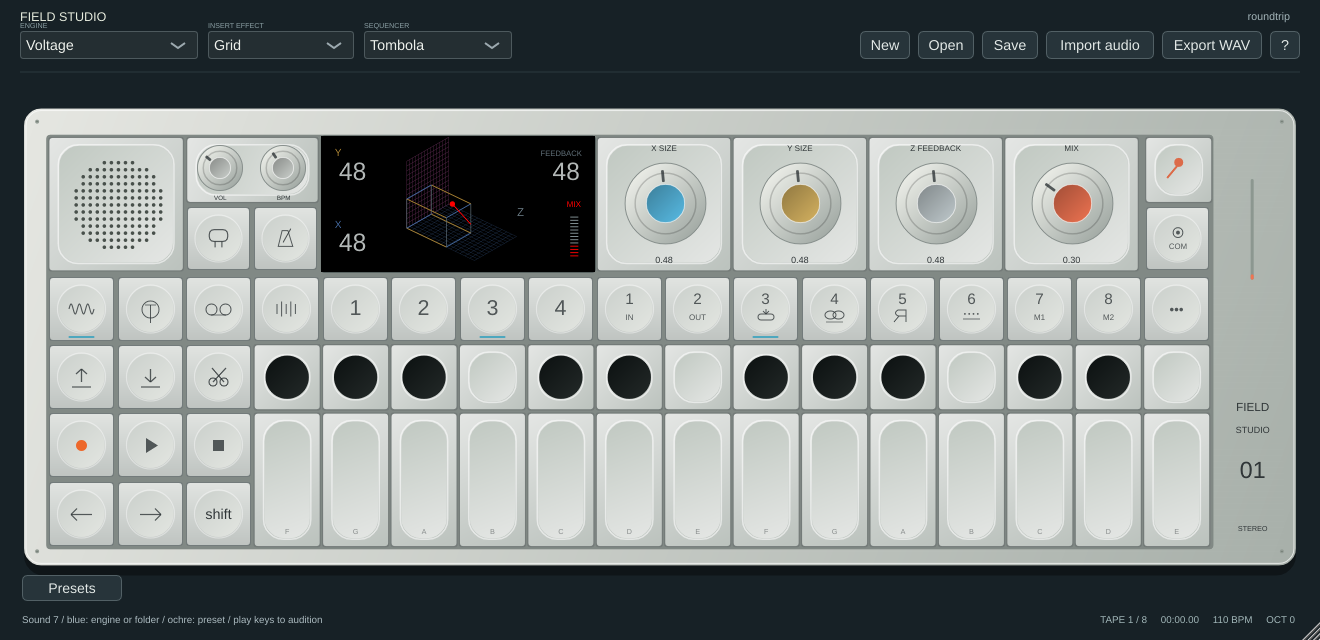
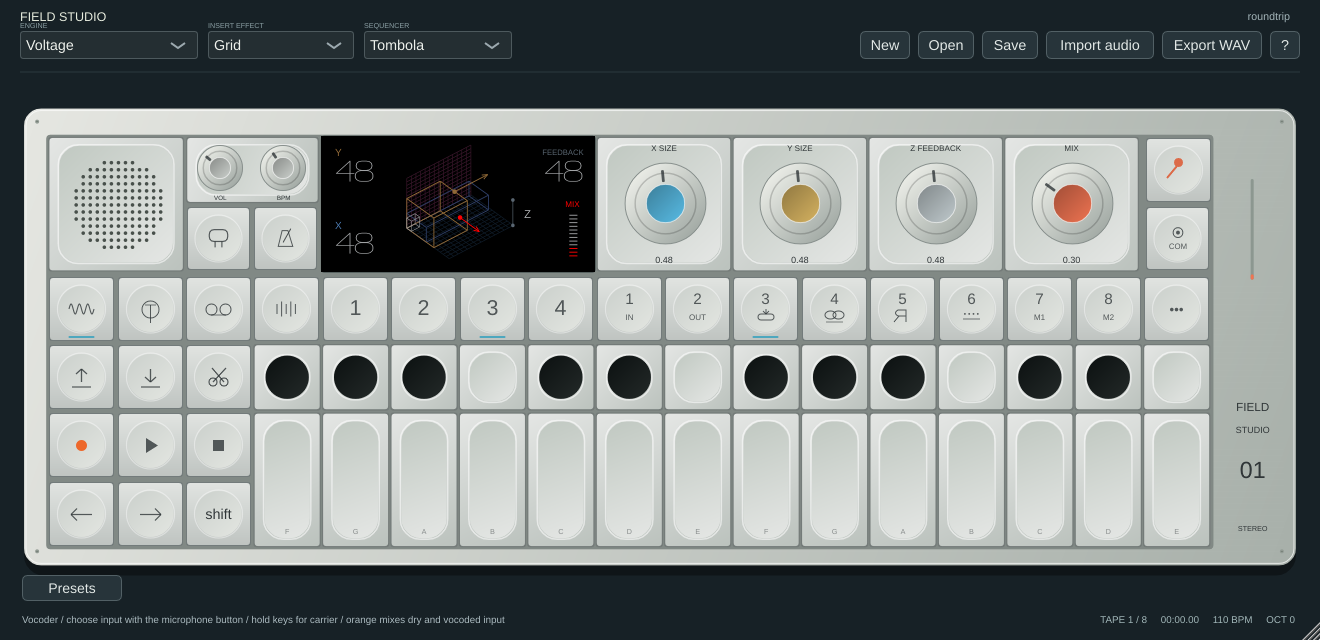
Redraw Grid, Mother, Dimension and DNA LCDs from references

diff --git a/Source/SpatialScreens.h b/Source/SpatialScreens.h
@@ -1,22 +1,34 @@
 #pragma once
-#include "MixerScreen.h"
+#include "LcdReadouts.h"
 namespace field {
-inline void effectMeter(juce::Graphics& g,float mix){for(int i=0;i<13;++i){g.setColour(i<(int)std::round(mix*13)?juce::Colours::red:juce::Colour(0xff89979b));g.drawLine(550,258-i*7.f,568,258-i*7.f,2);}}
+inline void effectMeter(juce::Graphics& g,float mix){for(int i=0;i<12;++i){g.setColour(i<(int)(std::clamp(mix,0.f,1.f)*12)?juce::Colours::red:juce::Colour(0xffa1a3a5));g.drawLine(548,258-i*8.f,566,258-i*8.f,2);}}
 inline void drawGridScreen(juce::Graphics& g,juce::Rectangle<float> b,const std::array<float,4>& v){
- juce::Graphics::ScopedSaveState save(g);mixerCanvas(g,b);const juce::Colour blue(0xff416599),ochre(0xffa78032),grey(0xff62717a),purple(0xff6b305b);auto text=[&](juce::String s,juce::Rectangle<float> r,float size,juce::Colour c){mixerText(g,s,r,size,c);};
- text("Y",{15,20,42,30},25,ochre);text(juce::String((int)std::round(v[1]*99)),{16,42,104,65},61,juce::Colour(0xffb2b7b6));text("X",{15,175,42,30},25,blue);text(juce::String((int)std::round(v[0]*99)),{16,197,104,65},61,juce::Colour(0xffb2b7b6));text("FEEDBACK",{464,20,132,30},19,grey);text(juce::String((int)std::round(v[2]*99)),{486,42,110,65},61,juce::Colour(0xffb2b7b6));text("MIX",{523,130,70,30},20,juce::Colours::red);effectMeter(g,v[3]);
- auto point=[](float x,float y,float z){return juce::Point<float>(188+x*150+y*93,198+x*70-y*52-z*145);};auto line=[&](juce::Point<float> a,juce::Point<float> z,juce::Colour c,float width=1.f){g.setColour(c);g.drawLine(a.x,a.y,z.x,z.y,width);};
- for(int i=0;i<=14;++i){float t=i/14.f;line(point(t,0,0),point(t,1,0),blue.withAlpha(.4f));line(point(0,t,0),point(1,t,0),blue.withAlpha(.4f));line(point(0,t,0),point(0,t,1),purple.withAlpha(.75f));line(point(0,0,t),point(0,1,t),purple.withAlpha(.75f));}
- float x=.2f+v[0]*.8f,y=.2f+v[1]*.8f,z=.1f+v[2]*.7f;for(int side=0;side<2;++side){float zz=side?z:0;line(point(0,0,zz),point(x,0,zz),ochre,2);line(point(x,0,zz),point(x,y,zz),blue,2);line(point(x,y,zz),point(0,y,zz),ochre,2);line(point(0,y,zz),point(0,0,zz),blue,2);}for(float xx:{0.f,x})for(float yy:{0.f,y})line(point(xx,yy,0),point(xx,yy,z),grey,1.5f);
- auto dot=point(x*.75f,y*.65f,z);g.setColour(juce::Colours::red);g.fillEllipse(dot.x-6,dot.y-6,12,12);line(dot,point(x,y,z*.3f),juce::Colours::red,2);text("Z",{425,144,30,40},28,grey);
+ juce::Graphics::ScopedSaveState save(g);mixerCanvas(g,b);const juce::Colour blue(0xff2d3d64),ochre(0xff8f6836),grey(0xff5a6671),purple(0xff371629),floor(0xff0f1b27),digits(0xffa1a3a5);
+ mixerText(g,"Y",{24,20,25,30},25,ochre);lcdNumeral(g,juce::String((int)std::round(v[1]*99)),{32,52,80,46},digits);mixerText(g,"X",{24,176,25,30},25,juce::Colour(0xff4a77ac));lcdNumeral(g,juce::String((int)std::round(v[0]*99)),{32,208,80,46},digits);mixerText(g,"FEEDBACK",{472,21,124,25},19,grey);lcdNumeral(g,juce::String((int)std::round(v[2]*99)),{495,52,80,46},digits);mixerText(g,"MIX",{520,131,70,30},20,juce::Colours::red);effectMeter(g,v[3]);
+ auto point=[](float x,float y,float z){return juce::Point<float>(188+x*94+y*142,198+x*66-y*72-z);};auto line=[&](juce::Point<float> a,juce::Point<float> z,juce::Colour c,float width=1.f){g.setColour(c);g.drawLine({a,z},width);};
+ for(int i=0;i<=14;++i){float t=i/14.f;line(point(t,0,0),point(t,1,0),floor,1.6f);line(point(0,t,0),point(1,t,0),floor,1.6f);line(point(0,t,0),point(0,t,108),purple,1.6f);line(point(0,0,t*108),point(0,1,t*108),purple,1.6f);}
+ auto box=[&](float x,float y,float h,juce::Colour first,juce::Colour second,float stroke){for(float z:{0.f,h}){line(point(0,0,z),point(x,0,z),first,stroke);line(point(x,0,z),point(x,y,z),first,stroke);line(point(x,y,z),point(0,y,z),second,stroke);line(point(0,y,z),point(0,0,z),second,stroke);}for(float xx:{0.f,x})for(float yy:{0.f,y})line(point(xx,yy,0),point(xx,yy,h),xx==x?first:second,stroke);};
+ box(.46f,.97f,32,blue,blue,2.f);const float x=.25f+v[0]*.81f,y=.2f+v[1]*.67f,h=20+v[2]*92;box(x,y,h,ochre,ochre,2.f);box(.105f,.13f,22,juce::Colour(0xffa1a3a5),juce::Colour(0xffa1a3a5),1.2f);
+ auto arrow=[&](juce::Point<float> a,juce::Point<float> z,juce::Colour c){line(a,z,c,2);const auto d=(z-a)/a.getDistanceFrom(z);auto n=juce::Point<float>(-d.y,d.x);line(z,z-d*12+n*5,c,2);line(z,z-d*12-n*5,c,2);g.setColour(c);g.fillEllipse(a.x-5,a.y-5,10,10);};
+ arrow({294,119}, {367+(v[1]-.48f)*50,82-(v[1]-.48f)*30},ochre);arrow({306,175},{313+v[0]*74,204+v[2]*3},juce::Colours::red);
+ g.setColour(grey);g.drawLine(423,137,423,192,1.5f);g.fillEllipse(419,133,8,8);g.fillEllipse(419,188,8,8);mixerText(g,"Z",{441,149,29,37},28,digits);
+}
+inline void motherFigure(juce::Graphics& g,float centre,float base,float scale,juce::Colour colour){
+ juce::Graphics::ScopedSaveState save(g);g.addTransform(juce::AffineTransform::scale(scale).translated(centre,base-275*scale));g.setColour(colour);juce::Path p;
+ p.startNewSubPath(-27,80);p.cubicTo(-21,65,-20,32,0,29);p.cubicTo(21,30,21,65,27,80);p.quadraticTo(18,84,9,81);p.startNewSubPath(-13,49);p.lineTo(13,49);p.cubicTo(17,69,9,82,0,82);p.cubicTo(-10,82,-16,67,-13,49);p.startNewSubPath(-27,80);p.quadraticTo(-18,84,-10,81);
+ p.startNewSubPath(-10,81);p.quadraticTo(-10,94,-27,101);p.quadraticTo(-43,106,-42,122);p.quadraticTo(-41,142,-46,160);p.quadraticTo(-49,171,-45,179);p.quadraticTo(-51,181,-49,207);p.quadraticTo(-48,223,-44,237);p.quadraticTo(-47,244,-44,254);p.lineTo(-41,264);p.lineTo(-38,266);p.lineTo(-39,254);p.lineTo(-41,248);p.lineTo(-39,237);p.quadraticTo(-35,234,-36,224);p.lineTo(-35,207);p.quadraticTo(-32,191,-30,182);p.lineTo(-20,159);p.quadraticTo(-25,148,-26,130);
+ p.startNewSubPath(10,81);p.quadraticTo(10,94,27,101);p.quadraticTo(43,106,42,122);p.quadraticTo(41,142,46,160);p.quadraticTo(49,171,45,179);p.quadraticTo(51,181,49,207);p.quadraticTo(48,223,44,237);p.quadraticTo(47,244,44,254);p.lineTo(41,264);p.lineTo(38,266);p.lineTo(39,254);p.lineTo(41,248);p.lineTo(39,237);p.quadraticTo(35,234,36,224);p.lineTo(35,207);p.quadraticTo(32,191,30,182);p.lineTo(20,159);p.quadraticTo(25,148,26,130);
+ p.startNewSubPath(-26,142);p.quadraticTo(-25,164,-33,181);p.quadraticTo(-38,194,-33,220);p.lineTo(-27,275);p.startNewSubPath(26,142);p.quadraticTo(25,164,33,181);p.quadraticTo(38,194,33,220);p.lineTo(27,275);p.startNewSubPath(0,236);p.lineTo(0,275);g.strokePath(p,juce::PathStrokeType(2.f/std::max(.65f,scale),juce::PathStrokeType::curved,juce::PathStrokeType::rounded));
 }
 inline void drawMotherScreen(juce::Graphics& g,juce::Rectangle<float> b,const std::array<float,4>& v){
- juce::Graphics::ScopedSaveState save(g);mixerCanvas(g,b);const juce::Colour blue(0xff416599),grey(0xff62717a),ochre(0xffa78032);const float vanishX=245,vanishY=155;auto toward=[&](float x,float y,float depth){return juce::Point<float>(vanishX+(x-vanishX)*depth,vanishY+(y-vanishY)*depth);};
- g.setColour(grey.withAlpha(.45f));for(int i=0;i<12;++i){float depth=std::pow(.82f,(float)i);auto tl=toward(20,20,depth),br=toward(584,274,depth);g.drawRect(juce::Rectangle<float>(tl,br),1);}for(int i=0;i<=10;++i){float x=20+i*56.4f;g.drawLine(x,20,vanishX,vanishY,.7f);g.drawLine(x,274,vanishX,vanishY,.7f);}for(int i=0;i<=7;++i){float y=20+i*36.3f;g.drawLine(20,y,vanishX,vanishY,.7f);g.drawLine(584,y,vanishX,vanishY,.7f);}
- // Original body outline; distance changes apparent depth, gate the rear frame.
- auto person=[&](float x,float base,float scale,juce::Colour colour){juce::Graphics::ScopedSaveState pose(g);g.addTransform(juce::AffineTransform::scale(scale).translated(x,base));g.setColour(colour);juce::Path p;p.startNewSubPath(-17,-198);p.cubicTo(-28,-194,-24,-161,-15,-153);p.lineTo(-15,-142);p.lineTo(-38,-127);p.lineTo(-46,-77);p.lineTo(-55,-35);p.lineTo(-51,-13);p.lineTo(-46,-32);p.lineTo(-44,-60);p.lineTo(-30,-106);p.lineTo(-29,-69);p.lineTo(-23,-42);p.lineTo(-27,0);p.lineTo(-13,0);p.lineTo(-8,-57);p.lineTo(8,-57);p.lineTo(13,0);p.lineTo(27,0);p.lineTo(23,-42);p.lineTo(29,-69);p.lineTo(30,-106);p.lineTo(44,-60);p.lineTo(46,-32);p.lineTo(51,-13);p.lineTo(55,-35);p.lineTo(46,-77);p.lineTo(38,-127);p.lineTo(15,-142);p.lineTo(15,-153);p.cubicTo(24,-161,28,-194,17,-198);p.quadraticTo(0,-214,-17,-198);g.strokePath(p,juce::PathStrokeType(2));g.drawEllipse(-15.f,-196.f,30.f,43.f,1.5f);};
- person(303,276,1.3f-v[0]*.75f,blue);person(190,209,.22f,blue.withAlpha(.8f));g.setColour(ochre.withAlpha(.8f));g.drawRect(164.f,119-v[1]*25,53.f,93+v[1]*25,1.f);for(int ray=0;ray<3;++ray){g.setColour(juce::Colours::red.withAlpha(.35f+v[2]*.65f));g.drawLine(369,45+ray*19.f,490+v[2]*60,122,1);}
- g.setColour(juce::Colours::red);g.fillEllipse(257,54,12,12);g.fillEllipse(333,54,12,12);mixerText(g,"DISTANCE",{22,20,119,28},18,blue);mixerText(g,juce::String((int)std::round(v[0]*99)),{22,42,104,65},61,juce::Colour(0xffb2b7b6));mixerText(g,"GATE",{125,211,99,28},19,ochre);mixerText(g,"COLOR",{365,236,99,28},19,grey);mixerText(g,"MIX",{525,130,70,30},20,juce::Colours::red);effectMeter(g,v[3]);
+ juce::Graphics::ScopedSaveState save(g);mixerCanvas(g,b);const juce::Colour blue(0xff2d3d64),grey(0xff5a6671),ochre(0xff8f6836),room(0xff17232a),digits(0xffa1a3a5);
+ auto top=[](float u,float t){return juce::Point<float>(45+509*u+(122-309*u)*t,24+68*t);};auto bottom=[](float u,float t){return juce::Point<float>(45+509*u+(122-309*u)*t,274-92*t);};
+ auto line=[&](juce::Point<float> a,juce::Point<float> z,float width=1.f){g.drawLine({a,z},width);};g.setColour(room);for(int i=0;i<20;++i){float left=45+122*(1-std::pow(.86f,(float)i)),right=554-187*(1-std::pow(.78f,(float)i)),upper=24+68*(1-std::pow(.83f,(float)i)),lower=274-92*(1-std::pow(.78f,(float)i));line({left,upper},{right,upper});line({left,lower},{right,lower});line({left,upper},{left,lower});line({right,upper},{right,lower});}
+ for(int i=0;i<=12;++i){float u=i/12.f;line(top(u,1),bottom(u,1));}
+ for(int i=0;i<=7;++i){float t=i/7.f;for(float side:{0.f,1.f}){auto a=top(side,0)+(bottom(side,0)-top(side,0))*t,z=top(side,1)+(bottom(side,1)-top(side,1))*t;line(a+(a-z)*.3f,z);}line(top(0,1)+(bottom(0,1)-top(0,1))*t,top(1,1)+(bottom(1,1)-top(1,1))*t);}
+ const float gateTop=136-v[1]*50;g.setColour(ochre);juce::Path gate;gate.startNewSubPath(135,gateTop);gate.lineTo(189,gateTop);gate.lineTo(189,212);gate.lineTo(135,212);g.strokePath(gate,juce::PathStrokeType(1.7f));motherFigure(g,188,206,.34f,blue);motherFigure(g,303,275,1+(.48f-v[0])*.5f,blue);
+ g.setColour(juce::Colours::red);g.fillEllipse(257,54,12,12);g.fillEllipse(333,54,12,12);for(int ray=0;ray<3;++ray)g.drawLine(369,46+ray*14.f,478+v[2]*38,123,1);
+ mixerText(g,"DISTANCE",{16,21,119,28},20,juce::Colour(0xff3b5787));lcdNumeral(g,juce::String((int)std::round(v[0]*99)),{32,52,80,46},digits);mixerText(g,"GATE",{123,211,90,28},20,ochre);mixerText(g,"COLOR",{359,237,99,28},21,digits);mixerText(g,"MIX",{520,131,70,30},20,juce::Colours::red);effectMeter(g,v[3]);
 }
 inline void drawMasterScreen(juce::Graphics& g,juce::Rectangle<float> b,float left,float right,float drive,float release,const std::array<float,2>& peaks,const std::array<float,2>& prePeaks,bool linked){
  juce::Graphics::ScopedSaveState save(g);mixerCanvas(g,b);const juce::Colour grey(0xff62717a),pale(0xffc6cebb);mixerText(g,"MASTER",{24,20,114,32},19,grey);mixerText(g,linked?"SHIFT LOCK":"SHIFT LINK",{263,30,88,20},10,linked?juce::Colour(0xffa45791):grey);

diff --git a/Source/DimensionScreen.cpp b/Source/DimensionScreen.cpp
@@ -6,56 +6,59 @@ void drawDimensionScreen(juce::Graphics& g,juce::Rectangle<float> bounds,float w
     juce::Graphics::ScopedSaveState state(g);
     g.reduceClipRegion(bounds.toNearestInt());
     g.addTransform(juce::AffineTransform::scale(bounds.getWidth()/604.f,bounds.getHeight()/292.f).translated(bounds.getX(),bounds.getY()));
-    const juce::Colour blue{0xff4476aa},dimBlue{0xff2d4c75},ochre{0xffb68d42},grey{0xffb5bfaf},muted{0xff607582},red{0xffff1810},grid{0xff343229};
+    const juce::Colour blue{0xff4a77ac},dimBlue{0xff2d3d64},ochre{0xff8f6836},grey{0xffc4c8b6},muted{0xff5a6671},red{0xffff0000},grid{0xff2a221c};
     g.fillAll(juce::Colours::black);
     auto text=[&](const juce::String& value,juce::Rectangle<float> area,float size,juce::Colour colour,int justification=juce::Justification::centredLeft){g.setColour(colour);g.setFont(juce::Font(juce::FontOptions(size)));g.drawText(value,area,justification,true);};
     waveform=juce::jlimit(0.f,1.f,waveform);stereo=juce::jlimit(0.f,1.f,stereo);cutoff=juce::jlimit(0.f,1.f,cutoff);resonance=juce::jlimit(0.f,1.f,resonance);
-    text("WAVEFORM",{20,12,114,24},17,dimBlue);
-    text("STEREO",{143,12,80,24},17,ochre);
+    text("WAVEFORM",{20,12,114,24},19,dimBlue);
+    text("STEREO",{140,12,80,24},19,ochre);
     g.setColour(ochre.withAlpha(.5f));g.drawLine(225,25,290,25,1.2f);g.setColour(muted);g.drawLine(257,19,257,31,1);
     const float marker=225+stereo*65;g.setColour(ochre);g.drawLine(marker,21,marker,29,2);
-    text("FILTER FREQ",{302,12,116,24},17,muted);
+    text("FILTER FREQ",{300,12,116,24},19,muted);
     // Same unmodulated cutoff law as Engine::voice; never hard-code the guide's
     // example 440–1440 readout as if it were the current hardware response.
     const float hz=std::min((float)(sampleRate*.4),100.f+cutoff*cutoff*18000.f);
     text(hz>=1000?juce::String(hz/1000,1)+"k Hz":juce::String(hz,0)+" Hz",{420,12,121,24},18,grey);
-    text("RES",{545,12,45,24},17,red);
+    text("RES",{545,12,45,24},19,red);
 
-    constexpr float left=135,right=540,top=41,bottom=253;
-    g.setColour(grid);for(int line=0;line<7;++line){float y=top+(bottom-top)*line/6;g.drawLine(left,y,577,y,.65f);g.setColour(grey.withAlpha(.6f));g.drawLine(left-12,y,left,y,.8f);g.setColour(grid);}
-    g.setColour(grey.withAlpha(.4f));g.drawLine(left,top,left,bottom,.8f);
-    for(float x:{220.f,320.f,420.f,540.f}){g.setColour(muted.withAlpha(.38f));for(float y=top;y<bottom;y+=12)g.drawLine(x,y,x,juce::jmin(y+7,bottom),.8f);}
+    constexpr float left=132,right=506,top=39,bottom=252;
+    g.setColour(grid);for(int line=0;line<7;++line){float y=top+(bottom-top)*line/6;g.drawLine(left,y,506,y,1.f);g.setColour(grey.withAlpha(.85f));g.drawLine(left-12,y,left,y,.8f);g.setColour(grid);}
+    g.setColour(grey.withAlpha(.8f));g.drawLine(left,top,left,bottom,.8f);
+    for(float x:{220.f,418.f,506.f}){g.setColour(muted.withAlpha(.38f));for(float y=top;y<bottom;y+=12)g.drawLine(x,y,x,juce::jmin(y+7,bottom),.8f);}
     text("-1",{206,255,30,21},16,muted);text("0",{313,255,22,21},16,muted);text("1",{413,255,22,21},16,muted);
 
     const int selected=juce::jlimit(0,5,(int)(waveform*5.999f));
     for(int row=0;row<6;++row){
         const float y=46+row*35.f;
-        if(row==selected){g.setColour(blue.withAlpha(.21f));g.fillRect(21.f,y-6,114.f,35.f);g.setColour(blue);g.drawRect(21.f,y-6,114.f,35.f,1.2f);}
+        if(row==selected){g.setColour(juce::Colour(0xff0f1b27));g.fillRect(21.f,y-6,112.f,35.f);g.setColour(blue);g.drawRect(21.f,y-6,112.f,35.f,1.2f);}
         g.setColour(row==selected?blue:dimBlue);
         if(row==0||row==5){g.drawRoundedRectangle({27,y-1,68,24},2,1.1f);text("NOISE",{33,y-2,64,25},18,row==selected?blue:dimBlue);continue;}
         juce::Path shape;
         if(row==1){shape.startNewSubPath(24,y+23);for(int pulse=0;pulse<2;++pulse){float x=41+pulse*33.f;shape.lineTo(x,y+23);shape.lineTo(x,y+1);shape.quadraticTo(x+3,y-3,x+6,y+1);shape.lineTo(x+6,y+23);}shape.lineTo(96,y+23);}
         else if(row==2){shape.startNewSubPath(24,y+23);shape.lineTo(42,y+23);shape.lineTo(42,y);shape.lineTo(59,y);shape.lineTo(59,y+23);shape.lineTo(76,y+23);shape.lineTo(76,y);shape.lineTo(95,y);}
-        else{shape.startNewSubPath(26,y+23);for(int tooth=0;tooth<3;++tooth){float x=26+tooth*24.f;shape.lineTo(x+20,y);if(tooth<2)shape.lineTo(x+20,y+23);}if(row==4){g.strokePath(shape,juce::PathStrokeType(1.2f));g.drawRoundedRectangle({69,y+6,39,17},2,1);text("SUB",{72,y+5,34,18},13,blue);continue;}}
+        else{shape.startNewSubPath(26,y+23);for(int tooth=0;tooth<3;++tooth){float x=26+tooth*24.f;shape.lineTo(x+20,y);if(tooth<2)shape.lineTo(x+20,y+23);}if(row==4){g.strokePath(shape,juce::PathStrokeType(1.2f));g.setColour(blue);g.drawRoundedRectangle({69,y+6,39,17},2,1);text("SUB",{72,y+5,34,18},13,blue);continue;}}
         g.strokePath(shape,juce::PathStrokeType(1.2f));
     }
     {juce::Graphics::ScopedSaveState clip(g);g.reduceClipRegion(juce::Rectangle<float>(left,top,right-left,bottom-top).toNearestInt());
         // Smooth, animated XY-style control preview. Width follows Stereo;
         // waveform selection changes the curve, without claiming a live scope.
-        for(int trace=0;trace<4;++trace){juce::Path path;const float offset=trace*.075f;
-            for(int i=0;i<=360;++i){const float t=i/360.f*juce::MathConstants<float>::twoPi;
-                const float x=320+std::sin(t+offset)*(55+stereo*72);
-                const float y=155+std::sin(t+(trace%2?1.f:-1.f)*(.35f+stereo*1.1f)+offset+selected*.035f+std::sin(phase)*.12f)*(45+stereo*14);
+        for(int trace=0;trace<2;++trace){juce::Path path;
+            // The guide's knot is a paired 2:3 Lissajous, not four ellipses.
+            const float width=(80+stereo*60)*(trace?.8795f:1.f),height=(40+stereo*14)*(trace?.8755f:1.f);
+            for(int i=0;i<=720;++i){const float t=i/720.f*juce::MathConstants<float>::twoPi;
+                const float x=318.53f+std::sin(t*2)*width;
+                const float y=140.65f+std::sin(t*3+juce::MathConstants<float>::pi+(selected-1)*.035f+std::sin(phase)*.04f)*height;
                 if(i==0)path.startNewSubPath(x,y);else path.lineTo(x,y);
             }
-            g.setColour((trace%2?blue:dimBlue).withAlpha(trace==0?.9f:.65f));g.strokePath(path,juce::PathStrokeType(1.2f));
+            g.setColour(trace?blue:dimBlue);g.strokePath(path,juce::PathStrokeType(1.5f));
         }
     }
+    g.setColour(grid);g.drawLine(584,top,584,bottom,1);for(int i=0;i<7;++i){float y=top+(bottom-top)*i/6;g.drawLine(572,y,584,y,1);}
     // The orange control is visualized using the reference's resonance shape;
     // the independent audio engine's macro law has not been hardware matched.
-    const float height=12+resonance*92,centre=558+cutoff*5,width=7+resonance*12;
+    const float height=16+resonance*96,centre=562+cutoff*5,width=7+resonance*12;
     juce::Path peak;peak.startNewSubPath(543,bottom);
-    for(int i=0;i<=70;++i){float x=543+i/70.f*40.f;peak.lineTo(x,bottom-height*std::exp(-std::pow((x-centre)/width,2)*2));}
+    for(int i=0;i<=70;++i){float x=543+i/70.f*40.f;peak.lineTo(x,bottom-height*std::exp(-std::pow((x-centre)/width,4)*2));}
     peak.lineTo(583,bottom);peak.closeSubPath();g.setColour(red);g.fillPath(peak);
 }
 }

diff --git a/tests/plugin_tests.cpp b/tests/plugin_tests.cpp
@@ -1,3 +1,6 @@
+#include "SpatialScreens.h"
+#include "DnaScreen.h"
+#include "DimensionScreen.h"
 #include "PluginProcessor.h"
 #include <thread>
 #include <atomic>
@@ -316,6 +319,8 @@ auto processor=std::make_unique<FieldProcessor>();processor->prepareToPlay(44100
     ui->setShiftForTesting(true);require(ui->macroMidiTargetForTesting(1)=="midiClockRelay"&&!ui->macroEnabledForTesting(0),"Tempo Shift relay/external ownership wrong");p.setValue("midiClockRelay",1);{juce::AudioBuffer<float> audio(2,128);juce::MidiBuffer clockEvents;for(int tick=0;tick<80;++tick){audio.clear();clockEvents.clear();for(int frame=0;frame<128;++frame)if((tick*128+frame)%882==0)clockEvents.addEvent(juce::MidiMessage::midiClock(),frame);p.processBlock(audio,clockEvents);}}require(p.clockLocked,"Tempo screenshot fixture did not acquire incoming clock");ui->refreshForTesting();captureNamed("tempo-midi-relay");ui->setShiftForTesting(false);p.clockLocked=false;p.metronome=false;p.setValue("tempoTapeLink",0);p.setValue("midiClockRelay",0);p.setValue("midiClockMode",0);p.setValue("tapeSpeed",1);p.setValue("tempo",110);
     p.setValue("midiInputChannel",0);p.setValue("midiNotesIn",1);p.setValue("sequenceOn",0);p.drumMode=false;p.setValue("engine",12);p.setValue("macro1",.65f);p.setValue("macro2",.55f);p.setValue("macro3",.6f);p.setValue("macro4",.85f);p.setValue("inputGain",1);{juce::AudioBuffer<float> audio(2,128);juce::MidiBuffer events;for(int tick=0;tick<70;++tick){events.clear();if(tick==1)events.addEvent(juce::MidiMessage::noteOn(1,60,.8f),0);for(int i=0;i<128;++i){float value=.2f*std::sin((tick*128+i)*.08f)+.15f*std::sin((tick*128+i)*.031f);audio.setSample(0,i,value);audio.setSample(1,i,value);}p.processBlock(audio,events);}}ui->showPageForTesting(0,0);captureNamed("vocoder-reference");require(ui->macroMidiTargetForTesting(0)=="macro1"&&ui->macroMidiTargetForTesting(3)=="macro4","Vocoder macro mapping changed");
     p.transport("panic");p.setValue("captureLength",0);p.setValue("captureThreshold",.2f);p.setValue("captureKeyGate",1);ui->showPageForTesting(6,0);require(ui->macroMidiTargetForTesting(2)=="captureThreshold"&&ui->macroMidiTargetForTesting(3)=="inputGain","Capture threshold/gain controls wrong");p.startSampleCapture();ui->refreshForTesting();captureNamed("sampling-standby");{juce::AudioBuffer<float> audio(2,128);juce::MidiBuffer events;for(int tick=0;tick<140;++tick){events.clear();if(tick==1)events.addEvent(juce::MidiMessage::noteOn(1,60,.8f),0);for(int i=0;i<128;++i){audio.setSample(0,i,.3f*std::sin((tick*128+i)*.1f));audio.setSample(1,i,.2f*std::sin((tick*128+i)*.09f));}p.processBlock(audio,events);}}require(!p.captureArmed&&p.captureSeconds>0,"Recording screenshot fixture never triggered");ui->refreshForTesting();captureNamed("sampling-recording");p.stopSampleCapture();p.setValue("captureKeyGate",0);p.setValue("captureThreshold",0);p.transport("panic");ui->showPageForTesting(0,0);
+    p.drumMode=false;p.setValue("engine",9);for(int i=1;i<=4;++i)p.setValue("macro"+juce::String(i),.48f);ui->showPageForTesting(0,0);captureNamed("dna-reference");
+    if(argc>1){auto saveLcd=[&](juce::String name,auto draw){juce::Image image(juce::Image::RGB,604,292,true);juce::Graphics graphics(image);draw(graphics);auto file=juce::File::getCurrentWorkingDirectory().getChildFile(argv[1]).getChildFile(name+".png");juce::FileOutputStream stream(file);stream.setPosition(0);stream.truncate();juce::PNGImageFormat png;require(png.writeImageToStream(image,stream),"LCD reference snapshot failed");};saveLcd("lcd-grid",[](auto& g){field::drawGridScreen(g,{0,0,604,292},{{.48f,.48f,.48f,.3f}});});saveLcd("lcd-mother",[](auto& g){field::drawMotherScreen(g,{0,0,604,292},{{.48f,.48f,.48f,.3f}});});saveLcd("lcd-dna",[](auto& g){field::drawDnaScreen(g,{0,0,604,292},{{.48f,.48f,.48f,.48f}});});saveLcd("lcd-dimension",[](auto& g){field::drawDimensionScreen(g,{0,0,604,292},.24f,.62f,.42f,.75f,44100,0);});}
     for(int type=0;type<FieldProcessor::lfoNames.size();++type){p.setValue("lfo",(float)type);for(int shape=0;shape<6;++shape){p.setValue("lfoWaveform",(float)shape);ui->showPageForTesting(0,3);require(editor->createComponentSnapshot(editor->getLocalBounds()).isValid(),"LFO source/shape did not render");if(shape==0)captureNamed("lfo-"+juce::String(type));if(type==3)captureNamed("lfo-wave-"+juce::String(shape));}}
     p.drumMode=false;p.setValue("engine",1);ui->setShiftForTesting(false);ui->showPageForTesting(0,0);require(ui->macroMidiTargetForTesting(0)=="macro1","Synth knob learns wrong parameter");ui->showPageForTesting(3,0);require(ui->macroMidiTargetForTesting(0)=="track1Level","Mixer knob learns wrong parameter");ui->setShiftForTesting(true);require(ui->macroMidiTargetForTesting(0)=="track1Pan","Shifted mixer knob learns wrong parameter");p.drumMode=true;p.setValue("engine",14);ui->setShiftForTesting(false);ui->showPageForTesting(1,0);require(ui->macroMidiTargetForTesting(2)=="dboxEnvelope1","DBox knob learns wrong parameter");ui->setShiftForTesting(true);require(ui->macroMidiTargetForTesting(2)=="dboxEnvelope2","Shifted DBox knob learns wrong parameter");p.setValue("engine",11);ui->setShiftForTesting(false);ui->showPageForTesting(1,0);require(ui->macroMidiTargetForTesting(0)=="padStart","Sampler pad knob learns wrong parameter");p.drumMode=false;p.setValue("engine",1);ui->showPageForTesting(0,0);p.beginMidiLearn("macro1",field::EncoderMode::absolute,true);captureNamed("midi-learn");p.cancelMidiLearn();
     ui->setShiftForTesting(false);ui->showPageForTesting(2,0);

diff --git a/Source/DnaScreen.h b/Source/DnaScreen.h
@@ -1,0 +1,18 @@
+#pragma once
+#include "LcdReadouts.h"
+namespace field {
+// Parameter illustration. CPU ID is the reference's screen label, not a CPU serial number.
+inline void drawDnaScreen(juce::Graphics& g,juce::Rectangle<float> b,const std::array<float,4>& v){
+ juce::Graphics::ScopedSaveState save(g);mixerCanvas(g,b);const juce::Colour blue(0xff2d3d64),ochre(0xff8f6836),grey(0xffa1a3a5),link(0xff293139),pale(0xffc4c8b6),red(0xffff0000),purple(0xff542043);
+ mixerText(g,"CPU ID",{247,38,102,29},20,juce::Colour(0xff4f4f4d));mixerText(g,"FILTER",{24,133,101,28},20,juce::Colour(0xff3b5787));
+ constexpr int colourIndex[]{0,2,1,0,0,0,3,1,3,0,0,2,1};const juce::Colour palette[]{blue,ochre,grey,red};constexpr int lowerColour[]{1,1,2,0,3,1,3,2,2,0,1,1,2};constexpr char bottom[]{'4','D','5','E','E','3','5',' ','D','3','3','E','5'};
+ const int variant=(int)std::round(v[1]*31)-15+(int)std::round(v[2]*15)-7;constexpr char hex[]="0123456789ABCDEF";
+ for(int i=0;i<13;++i){const float x=143+i*23.5f,top=i==7?96.f:i==11?100.f:112.f,low=i==4||i>=11?199.f:166.f;g.setColour(link);g.drawLine(x+8.5f,top+20,x+8.5f,i==7?148:low,1.5f);
+ auto tile=[&](float y,char c,juce::Colour colour){g.setColour(colour);g.fillRect(x,y,17.f,20.f);mixerText(g,juce::String::charToString((juce::juce_wchar)c),{x-1,y-3,19,25},23,colour==grey&&y<130?juce::Colours::black:pale);};
+ tile(top,'4',palette[colourIndex[i]]);if(i==7){g.setColour(link);g.fillEllipse(x+3,142,12,12);}else {int code=juce::String(hex).indexOfChar(bottom[i]);char c=variant==0?bottom[i]:hex[(code+variant+i*std::abs(variant)+256)%16];tile(low+(v[2]-.48f)*(i%3-1)*11,c,palette[lowerColour[i]]);}
+ }
+ // Filter and modifier move terminal nodes; noise controls the red terminal segment.
+ g.setColour(ochre);g.fillEllipse(474,101+(v[1]-.48f)*35,12,12);g.setColour(grey);g.fillEllipse(474,186+(v[2]-.48f)*35,12,12);g.setColour(purple);g.drawLine(542,104,542,199,2);g.setColour(red);g.drawLine(542,199-std::min(95.f,v[3]*118),542,199,2);
+ g.setColour(blue.withAlpha(.4f));g.drawLine(141,141,141+(v[0]-.48f)*22,141,1);
+}
+}

diff --git a/Source/LcdReadouts.h b/Source/LcdReadouts.h
@@ -1,0 +1,27 @@
+#pragma once
+#include "MixerScreen.h"
+namespace field {
+// Original single-stroke numerals, independent of platform font substitution.
+inline void lcdNumeral(juce::Graphics& g,juce::String value,juce::Rectangle<float> bounds,juce::Colour colour,float thickness=2.f){
+ const float advance=43,total=juce::jmax(1,value.length())*advance-4;const float sx=bounds.getWidth()/std::max(82.f,total),sy=bounds.getHeight()/62;
+ juce::Graphics::ScopedSaveState save(g);g.addTransform(juce::AffineTransform::scale(sx,sy).translated(bounds.getCentreX()-total*sx*.5f,bounds.getY()));g.setColour(colour);
+ for(int index=0;index<value.length();++index){juce::Path p;const auto c=value[index];
+ switch(c){
+ case '0':p.addRoundedRectangle(1,1,37,59,17,17);break;
+ case '1':p.startNewSubPath(17,1);p.lineTo(17,60);break;
+ case '2':p.startNewSubPath(1,14);p.cubicTo(1,-4,38,-4,38,15);p.cubicTo(38,29,13,35,1,60);p.lineTo(39,60);break;
+ case '3':p.startNewSubPath(1,2);p.lineTo(22,2);p.cubicTo(44,2,43,28,23,29);p.cubicTo(45,29,44,60,23,60);p.lineTo(0,60);break;
+ case '4':p.startNewSubPath(31,60);p.lineTo(31,1);p.lineTo(0,37);p.lineTo(40,37);break;
+ case '5':p.startNewSubPath(38,1);p.lineTo(2,1);p.lineTo(2,28);p.lineTo(23,28);p.cubicTo(46,28,44,60,23,60);p.lineTo(1,60);break;
+ case '6':p.startNewSubPath(35,1);p.lineTo(19,1);p.cubicTo(-1,1,1,27,1,44);p.cubicTo(1,66,39,66,39,44);p.cubicTo(39,26,1,26,1,44);break;
+ case '7':p.startNewSubPath(0,1);p.lineTo(39,1);p.lineTo(10,60);break;
+ case '8':p.addRoundedRectangle(2,1,36,27,13,13);p.addRoundedRectangle(0,29,40,31,14,14);break;
+ case '9':p.startNewSubPath(3,60);p.lineTo(19,60);p.cubicTo(39,60,39,33,39,17);p.cubicTo(39,-5,1,-5,1,17);p.cubicTo(1,35,39,35,39,17);break;
+ case '-':p.startNewSubPath(9,31);p.lineTo(30,31);break;
+ case '.':p.addEllipse(16,57,2,2);break;
+ default:break;
+ }
+ g.strokePath(p,juce::PathStrokeType(thickness,juce::PathStrokeType::curved,juce::PathStrokeType::rounded));g.addTransform(juce::AffineTransform::translation(advance,0));
+ }
+}
+}

diff --git a/Source/PluginEditor.cpp b/Source/PluginEditor.cpp
@@ -1,3 +1,4 @@
+#include "DnaScreen.h"
 #include "InputScreens.h"
 #include "TempoScreen.h"
 #include "PluginEditor.h"
@@ -286,6 +287,7 @@ void FieldEditor::drawScreen(juce::Graphics& g){
     if((masterCwo||patchCwo)&&((int)processor.value(masterCwo?"masterEffect":"effect")==3||(int)processor.value(masterCwo?"masterEffect":"effect")==9)){drawEffect(g,r,masterCwo);g.restoreState();return;}
     if(mode==2){drawTape(g,r);g.restoreState();return;}if(mode==3){drawMixer(g,(page<2||page==3)?r:content);g.restoreState();return;}if(mode==4){int seq=(int)processor.value("sequencer");drawSequence(g,seq>=1&&seq<=5?r:content);g.restoreState();return;}
     const int engine=(int)processor.value("engine");
+    if(mode==0&&page==0&&engine==9){field::drawDnaScreen(g,r,{{processor.value("macro1"),processor.value("macro2"),processor.value("macro3"),processor.value("macro4")}});g.restoreState();return;}
     if(mode==0&&page==0&&(engine==0||engine==6||engine==7)){std::array<float,4> values{};for(int i=0;i<4;++i)values[(size_t)i]=processor.value("macro"+juce::String(i+1));if(engine==0)field::drawVoltageScreen(g,r,values,processor.outputPeak.load());else if(engine==6)field::drawStringScreen(g,r,values);else field::drawPulseScreen(g,r,values);g.restoreState();return;}
     if(mode==0&&page==0&&engine==11){drawSampler(g,r);g.restoreState();return;}
     if(mode==0&&page==0&&engine==5){field::drawDimensionScreen(g,r,processor.value("macro1"),processor.value("macro2"),processor.value("macro3"),processor.value("macro4"),processor.getSampleRate()>0?processor.getSampleRate():44100.,tick/30.f);g.restoreState();return;}

diff --git a/scripts/verify_packages.py b/scripts/verify_packages.py
@@ -44,7 +44,7 @@ for archive in archives:
             for name,digest in manifest.items():
                 if hashlib.sha256(bundle.read(root+name)).hexdigest()!=digest:
                     raise SystemExit(f'Invalid bundled file checksum: {name}')
-            required=['README.md','INSTALL.md','docs/CONTROLLERS.md','THIRD-PARTY-NOTICES/JUCE/LICENSE.md','integrations/field-studio/server.py','integrations/field-studio/mcp.json','docs/MCP.md','docs/AUDIO_BACKENDS.md','docs/TEMPO_SYNC.md','docs/VOCODER_SAMPLING.md','docs/screenshots/vocoder-reference.png','docs/screenshots/sampling-recording.png','docs/screenshots/tempo-beat-match.png','docs/screenshots/tempo-midi-relay.png']
+            required=['README.md','INSTALL.md','docs/CONTROLLERS.md','THIRD-PARTY-NOTICES/JUCE/LICENSE.md','integrations/field-studio/server.py','integrations/field-studio/mcp.json','docs/MCP.md','docs/AUDIO_BACKENDS.md','docs/TEMPO_SYNC.md','docs/VOCODER_SAMPLING.md','docs/LCD_FIDELITY.md','docs/screenshots/dna-reference.png','docs/screenshots/lcd-grid.png','docs/screenshots/vocoder-reference.png','docs/screenshots/sampling-recording.png','docs/screenshots/tempo-beat-match.png','docs/screenshots/tempo-midi-relay.png']
             if '-windows-' in archive.name:
                 found.add('windows');required+=['Standalone/Field Studio.exe','VST3/Field Studio.vst3/Contents/x86_64-win/Field Studio.vst3']
             elif '-macos-universal' in archive.name:

diff --git a/README.md b/README.md
@@ -2,7 +2,7 @@
 
 A native synthesizer, sampler and four-track stereo tape instrument inspired by the OP–1 field workflow. Builds a standalone application and VST3 from the same C++ audio engine; macOS also builds AU.
 
-**[Download the latest beta](https://github.com/stevenmcsorley/field-studio/releases/tag/v0.2.2-beta.7)** · [VST3 setup](#vst3-and-daw-workflow) · [Recent features and screenshots](#recent-improvements) · [Controller mapping](#controller-mapping)
+**[Download the latest beta](https://github.com/stevenmcsorley/field-studio/releases/tag/v0.2.2-beta.8)** · [VST3 setup](#vst3-and-daw-workflow) · [Recent features and screenshots](#recent-improvements) · [Controller mapping](#controller-mapping)
 
 ![Field Studio running on Linux, showing the CWO cow effect, four coloured encoders and two-octave keyboard](docs/screenshots/field-studio.png)
 
@@ -19,6 +19,8 @@ Play synths and drums, import samples, build a sequence, record it onto four ste
 - **Presets and controllers:** eight synth and eight drum sound slots, dated snapshots, preset browsing, nested user folders, MIDI learn and reusable controller profiles.
 
 ## Recent improvements
+
+**Grid, Mother, Dimension and DNA LCDs:** rebuilt Grid's floor/wall projection, wire boxes, arrows and thin numeric readouts; Mother now uses the reference's tunnel grid, foreground/rear figures and gate bracket. Dimension uses the paired 2:3 Lissajous knot, corrected plot placement and rounded resonance peak. DNA has a dedicated linked hexadecimal-tile screen, terminal dots and noise strip. All four retain parameter-driven rendering. These are closer reference-based redraws; pixel-perfect fonts, hardware readout laws and animation parity remain unverified. [LCD comparison notes and native details](docs/LCD_FIDELITY.md).
 
 **Vocoder and sampling:** the vocoder now has a dedicated head/voice LCD and independent Waveform, Formant, 4–16 Bands and dry/wet Mix controls. The orange microphone button opens a source picker and Standby/Recording page with live meter, threshold, input gain and 6/20/60/120-second limits. Click ARM or press Record; Shift-click ARM enables held-key capture. Empty captures preserve your previous sample. Choose microphone/interface/DAW input, Windows system loopback, Linux monitor sources, routed macOS virtual inputs, imported files or Field Studio's internal output resampling. macOS computer audio needs routing through a virtual device; automatic app/process capture is not included. [Step-by-step setup, controls and limits](docs/VOCODER_SAMPLING.md).
 
@@ -59,6 +61,8 @@ These are native screenshots of Field Studio. Screen artwork and DSP remain inde
 | [![String](docs/screenshots/string-reference.png)](docs/screenshots/string-reference.png) | [![Voltage](docs/screenshots/voltage-reference.png)](docs/screenshots/voltage-reference.png) |
 | **Pulse** | **Stereo Sampler** |
 | [![Pulse](docs/screenshots/pulse-reference.png)](docs/screenshots/pulse-reference.png) | [![Stereo Sampler](docs/screenshots/sampler-reference.png)](docs/screenshots/sampler-reference.png) |
+| **DNA synth** | **Dimension LCD detail** |
+| [![DNA synth](docs/screenshots/dna-reference.png)](docs/screenshots/dna-reference.png) | [![Dimension LCD](docs/screenshots/lcd-dimension.png)](docs/screenshots/lcd-dimension.png) |
 | **Dimension synth** | **DSynth** |
 | [![Dimension](docs/screenshots/dimension-reference.png)](docs/screenshots/dimension-reference.png) | [![DSynth](docs/screenshots/dsynth-reference.png)](docs/screenshots/dsynth-reference.png) |
 
@@ -136,7 +140,7 @@ Right-click a knob and choose **MIDI learn**, then move a control on your Faderf
 
 ## Downloads
 
-[Field Studio 0.2.2 beta 4 downloads](https://github.com/stevenmcsorley/field-studio/releases/tag/v0.2.2-beta.7) are available for Windows, macOS and Linux. All automated release gates passed. The pipeline packages Windows x64 standalone/VST3, macOS universal standalone/VST3/AU and Linux x86_64 standalone/VST3, with checksums and complete corresponding source. See [beta notes](docs/RELEASE_NOTES.md) and [build/release status](docs/BUILD_STATUS.md). Binaries are unsigned development builds.
+[Field Studio 0.2.2 beta 4 downloads](https://github.com/stevenmcsorley/field-studio/releases/tag/v0.2.2-beta.8) are available for Windows, macOS and Linux. All automated release gates passed. The pipeline packages Windows x64 standalone/VST3, macOS universal standalone/VST3/AU and Linux x86_64 standalone/VST3, with checksums and complete corresponding source. See [beta notes](docs/RELEASE_NOTES.md) and [build/release status](docs/BUILD_STATUS.md). Binaries are unsigned development builds.
 
 ## Run the Linux build
 

diff --git a/docs/LCD_FIDELITY.md b/docs/LCD_FIDELITY.md
@@ -1,0 +1,30 @@
+# Grid, Mother, Dimension and DNA LCD fidelity
+
+This pass uses the supplied guide screenshots to compare LCD content at a 604 × 292 reference canvas, independently of the surrounding desktop UI. Renderers use original vector paths and parameter-driven graphics; supplied screenshot bitmaps and manufacturer fonts are not bundled. The native integration harness can export full app screenshots and `lcd-grid`, `lcd-mother`, `lcd-dimension` and `lcd-dna` images for inspection.
+
+## What changed
+
+| Screen | Reference-based changes | Behaviour retained |
+|---|---|---|
+| Grid | Isometric floor and upright wall grids, blue wire frame, ochre size box, white origin cube, arrow endpoints, Z marker, thin-stroke values and 12-segment Mix meter. | X/Y resize the ochre geometry; feedback changes its height/red vector; Mix changes the red meter segments. Patch/master values remain independent. |
+| Mother | Finite rear-wall perspective, denser tunnel frames, large foreground/rear figure, gate bracket, colour rays, control dots and matching positions for Distance/Gate/Color/Mix. | Distance changes foreground depth, Gate changes the bracket, Colour changes ray geometry and Mix updates the meter. No invented free-running room animation. |
+| Dimension | Paired 2:3 Lissajous knot in place of four ellipses, corrected plot centre/extents, colours, left waveform selection, plot axes, SUB badge and rounded resonance peak. | Stereo changes trace size, waveform changes selection/trace phase, cutoff shows this engine's frequency, and resonance changes the peak. Trace motion remains a control illustration. |
+| DNA | Dedicated linked hexadecimal-tile display with raised/lowered branches, CPU ID caption, Filter label, terminal dots and purple/red noise strip. | Wave number/modifier vary the deterministic tile illustration and nodes; filter changes its blue indicator and Noise the red strip. It is not a live spectrum or CPU serial display. |
+
+## Native LCD details
+
+![Grid LCD](screenshots/lcd-grid.png)
+
+![Mother LCD](screenshots/lcd-mother.png)
+
+![Dimension LCD](screenshots/lcd-dimension.png)
+
+![DNA LCD](screenshots/lcd-dna.png)
+
+## Limits of the comparison
+
+The supplied images show particular hardware states without all normalized control values or animation frames. They support static layout and linework comparisons, not a claim that every parameter state or moving frame is identical. Native snapshots were inspected side by side at the reference size. They are not an automated hardware pixel-parity oracle.
+
+Numeric shapes are original single-stroke paths. Labels and hexadecimal tiles still use JUCE/platform text, so manufacturer typography and antialiasing are not exact. Dimension deliberately shows the actual independent engine cutoff; it does not display the guide's example `440–1440` range without implementing and measuring that hardware law. DNA's CPU ID caption follows the guide artwork but does not read or expose a machine's unique identifier. Its characters are a deterministic parameter illustration.
+
+These changes do not alter synth/effect DSP, parameter IDs, MIDI mapping or project formats. Exact sonic equivalence and remaining engine/control differences are tracked separately in [the parity ledger](PARITY.md). [Spatial control guide](MASTER_SPATIAL.md) and [screen validation](SCREENS.md).

diff --git a/docs/RELEASE_NOTES.md b/docs/RELEASE_NOTES.md
@@ -1,4 +1,4 @@
-# Field Studio 0.2.2 beta 7
+# Field Studio 0.2.2 beta 8
 
 Reliability update to the portable multi-platform beta of the independent synthesizer, sampler and four-track stereo tape instrument. Exact OP-1 field sound, feature and visual parity is not established.
 
@@ -15,7 +15,17 @@ Original Field Studio code/graphics: **MIT**. Combined app/plugin binaries with 
 
 Each download has a SHA-256 sidecar. Binary bundles include installation instructions, dependency notices and a per-file hash manifest. These are portable archives, not signed installers. Windows binaries are unsigned; macOS binaries are not Developer ID signed/notarized. The project owner reports working plugin operation, automation, Faderfox assignment and BeatStep use; DAW/OS/model details were not recorded. Broader device/host coverage remains open.
 
-## Added in beta 7
+## Added in beta 8
+
+- Grid LCD rebuilt around the supplied isometric floor/wall projection, fixed blue wire frame, ochre size box, white origin cube, directional arrows, Z marker and 12-segment mix strip. Thin stroke numerals replace filled-font readouts.
+- Mother LCD rebuilt with finite rear-wall perspective grid, foreground/rear figures, gate bracket, colour rays and matching readout placement. Insert and master effects use the same renderer with independent values.
+- Dimension's four-ellipse preview replaced by a paired 2:3 Lissajous knot. Corrected plot position, palette, waveform selection, axes and rounded resonance silhouette.
+- Dedicated DNA LCD with linked hexadecimal tiles, CPU ID caption, filter label, terminal nodes and noise strip. Tile variations follow control settings; the caption is not a CPU serial readout.
+- Updated native screenshots, LCD-only comparison views and rendering notes. Audio processing and existing parameter IDs are unchanged.
+
+This improves fidelity to the supplied still references; exact font rasterization, hardware frequency laws, geometry at every control value and animation timing are not established. Dimension shows this engine's actual cutoff rather than copying the guide's 440–1440 example as a live measurement. See docs/LCD_FIDELITY.md.
+
+## Retained from beta 7
 
 - Original full-LCD Vocoder head/voice illustration with real input activity, analysis envelopes and source label. Waveform now selects eight carriers, Formant remaps envelopes, Bands selects 4–16 bands and Mix blends dry/wet independently. Existing Vocoder patches can sound different after these corrections.
 - Sampling input page with source header, Standby/Recording states, real meter, threshold, input gain and 6/20/60/120-second maximums (20-second default). Record/Stop and held-key capture are supported; empty armed captures retain the previous sample.

diff --git a/docs/BUILD_STATUS.md b/docs/BUILD_STATUS.md
@@ -2,7 +2,7 @@
 
 The CWO/Delay fixes passed Linux, Windows x64, macOS universal build/tests and core ASan/UBSan in [run 41246239489](https://github.com/stevenmcsorley/field-studio/actions/runs/41246239489). All eight local suites and three sanitizer suites also passed.
 
-Version 0.2.2 beta 7 includes those fixes, preset management, screen improvements and background save/export. Its tag pipeline rebuilds and tests all three platforms, verifies packages/checksums and publishes only after every gate succeeds. [Release downloads](https://github.com/stevenmcsorley/field-studio/releases/tag/v0.2.2-beta.7) contain Windows x64, Linux x86_64, macOS universal and complete corresponding source. Downloads remain unsigned. The project owner reports working plugin operation, DAW automation, Faderfox assignment and BeatStep use on 1 November 2026; exact DAW/OS/controller details were not supplied. Broader device/host coverage remains open.
+Version 0.2.2 beta 8 includes those fixes, preset management, screen improvements and background save/export. Its tag pipeline rebuilds and tests all three platforms, verifies packages/checksums and publishes only after every gate succeeds. [Release downloads](https://github.com/stevenmcsorley/field-studio/releases/tag/v0.2.2-beta.8) contain Windows x64, Linux x86_64, macOS universal and complete corresponding source. Downloads remain unsigned. The project owner reports working plugin operation, DAW automation, Faderfox assignment and BeatStep use on 1 November 2026; exact DAW/OS/controller details were not supplied. Broader device/host coverage remains open.
 
 The live-engine commit/UI lock can still cause a contended callback to produce silence. Exact hardware equivalence is not established. See [known issues](KNOWN_ISSUES.md) and [release notes](RELEASE_NOTES.md).
 
@@ -11,6 +11,8 @@ Beta 5 passed all platform and release gates in [run 41304086380](https://github
 Beta 5 local validation passes all eight application suites, three core ASan/UBSan suites and nine MCP tests. Cross-platform results are recorded by the beta 5 tag workflow; backend factory checks do not establish real-device ASIO playback.
 
 Beta 6 passed all platform/release gates in [run 41305449396](https://github.com/stevenmcsorley/field-studio/actions/runs/41305449396). Beta 7 adds vocoder/sampling controls and an external capture backend; release builds validate compilation and regression tests, not physical audio-device operation.
+
+Beta 7 passed all platform/release gates in [run 41321672820](https://github.com/stevenmcsorley/field-studio/actions/runs/41321672820). Beta 8 changes four LCD renderers and adds reference-size image output; its release uses the same platform and package gates.
 
 ## Earlier build history
 

diff --git a/docs/PARITY.md b/docs/PARITY.md
@@ -98,3 +98,7 @@ The dedicated tempo LCD follows the supplied layout with live values and origina
 ## Vocoder and sampling — beta 7
 
 The Vocoder LCD, waveform/formant/bands/mix roles and sampling Standby/Recording controls follow the supplied guide references with original graphics/DSP. Device/DAW input, Windows loopback, Linux monitor routing and macOS routed virtual inputs are available; macOS automatic system/process capture is absent. Carrier shapes, band curves, formant scaling, key timing and source latency are not measured hardware matches. See [vocoder and sampling](VOCODER_SAMPLING.md) for workflow, sound-compatibility changes and remaining limits.
+
+## Four LCD redraws — beta 8
+
+Grid, Mother, Dimension and DNA now have reference-based geometry and dedicated LCD-only screenshots. This improves static visual fidelity; platform/manufacturer typography, readout laws, all parameter states and animation timing remain unverified. Dimension retains its true engine cutoff readout; DNA is a deterministic parameter illustration rather than a machine identifier. See [LCD fidelity notes](LCD_FIDELITY.md). No DSP or parameter IDs changed in this pass.
